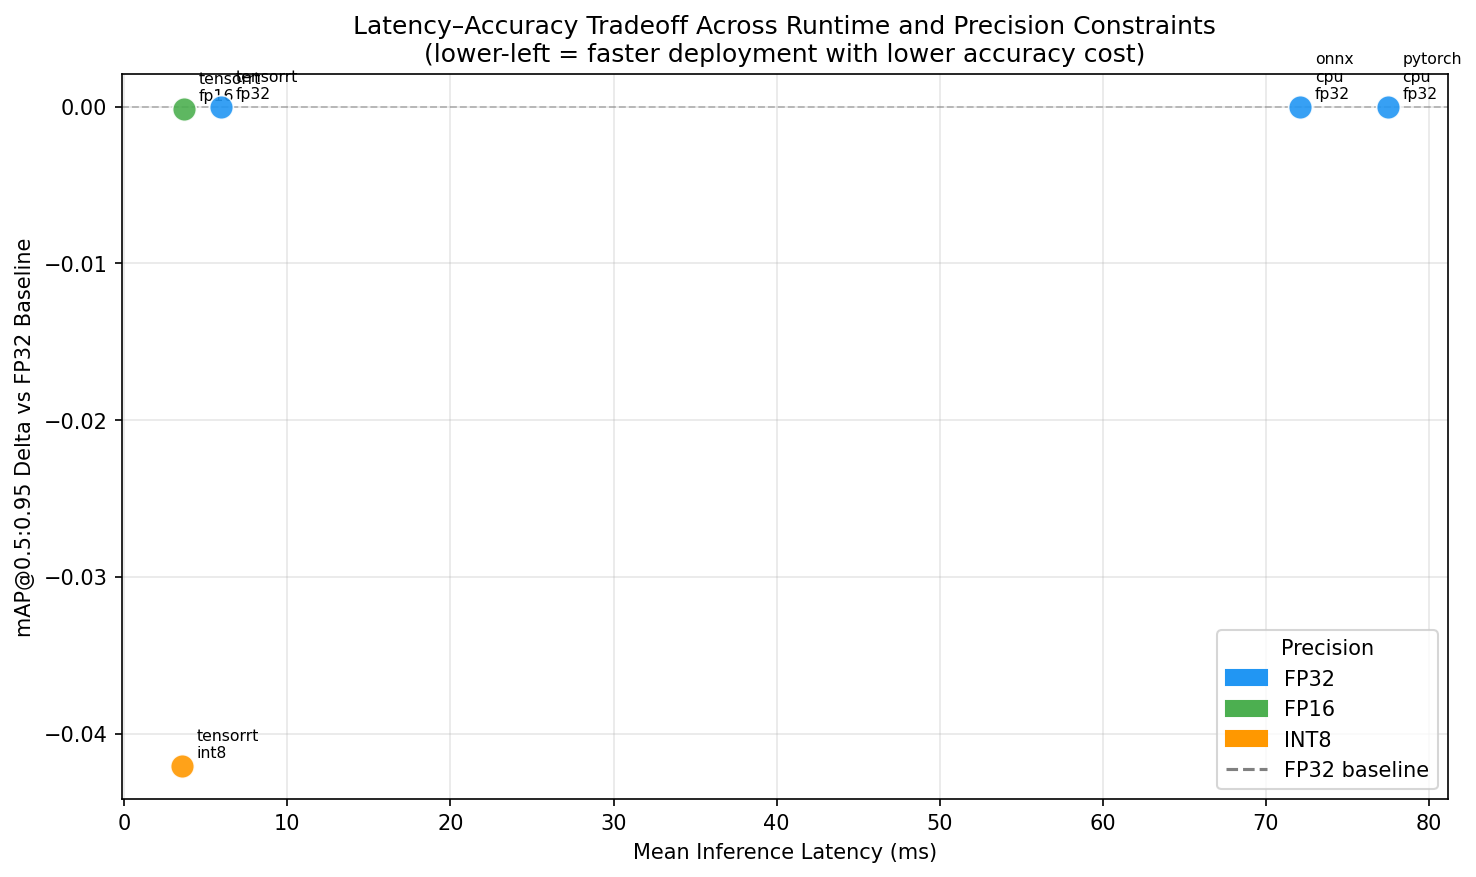
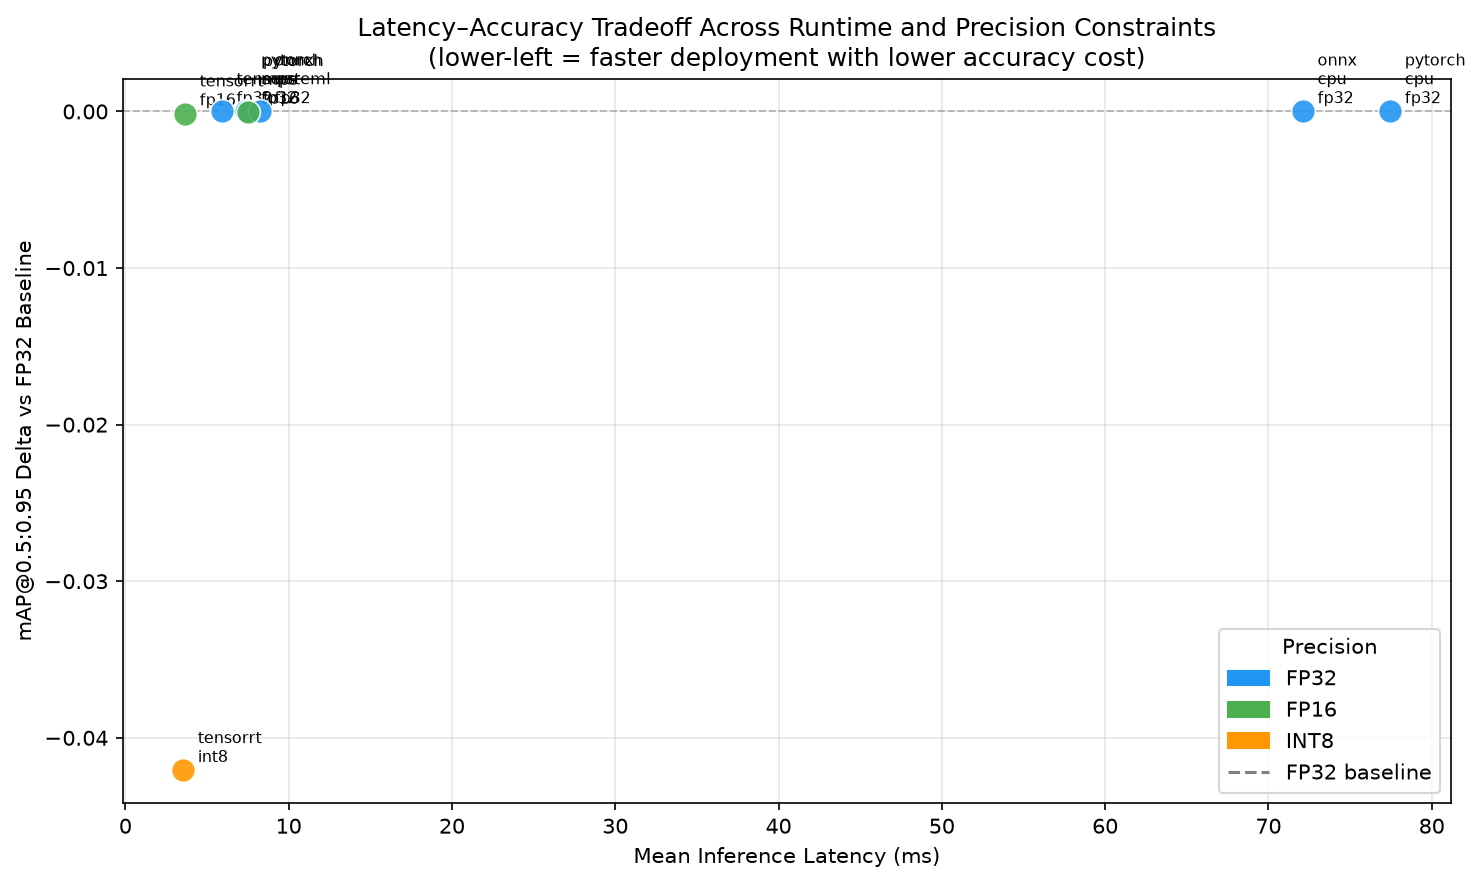
docs(mac-m5): update README and results notebook with real Mac M5 numbers
Real measured results (2026-08-08): PyTorch MPS FP32 (7.41ms, mAP 0.3595),
PyTorch MPS FP16 (7.53ms, mAP 0.3595, delta -0.0000384 noise-level), ONNX
Runtime + CoreML EP FP32 (8.24ms, mAP 0.3594). Updated the Latency and
Accuracy table, Memory Footprint table, Runtime and Hardware Scope status
(In progress -> Complete for what ran), Reproduction section (Mac M5 pinned
versions, updated test count 194->225), and Project Structure comments.

New Emergent Finding: Apple Silicon is competitive with a discrete T4 GPU
for this model class (7.41ms vs 5.91ms), and unlike TensorRT, FP16 provides
no latency benefit on MPS (7.53ms vs 7.41ms FP32, within noise) despite an
identical accuracy profile. New Deployment Decision Framework paragraph for
Apple Silicon / on-device edge deployment.

notebooks/results_analysis.ipynb: added the 3 real Mac M5 result filenames
to CANONICAL_FILES (not the _mac_m4-suffixed names the parked comment
guessed at -- ResultWriter.write_json() never used a hardware suffix),
uncommented the matching EXPECTED_COMBINATIONS entries, fixed the
mac_m4->mac_m5 hardware-label map and HARDWARE_ORDER dict. Executed
end-to-end (via extracted script -- jupyter isn't an installed/pinned
dependency) to regenerate all 3 committed figures with the full 8-result
dataset; visually verified before committing.

Claude-Session: https://claude.ai/code/session_01NDSU1DEoQKk4wQydQ8wTLn

diff --git a/README.md b/README.md
@@ -14,7 +14,7 @@ This is not a model training or accuracy improvement project. The YOLOv8n model 
 
 ## Results
 
-> **Hardware coverage:** CPU benchmarks on Fedora Linux 42 (Intel Core Ultra 5 125H). TensorRT benchmarks on Colab-hosted Tesla T4 (TRT 10.16.1.11, CUDA 12.8). Mac M5 (PyTorch MPS, ONNX Runtime + CoreML EP) benchmarks are in progress as of 2026-08-05 — not yet reflected in the tables below. See [Runtime and Hardware Scope](#runtime-and-hardware-scope) for the implication.
+> **Hardware coverage:** CPU benchmarks on Fedora Linux 42 (Intel Core Ultra 5 125H). TensorRT benchmarks on Colab-hosted Tesla T4 (TRT 10.16.1.11, CUDA 12.8). Mac M5 (Apple M5 MacBook Air) benchmarks completed 2026-08-08 for PyTorch MPS (FP32, FP16) and ONNX Runtime + CoreML EP (FP32) — see [Runtime and Hardware Scope](#runtime-and-hardware-scope) for what remains unbuilt (CoreML EP FP16/INT8).
 
 > **mAP note:** All mAP values are from this pipeline's evaluation (class-agnostic NMS, eval_conf_threshold=0.001). Published YOLOv8n baseline: 0.372 mAP@0.5:0.95 (Ultralytics, class-aware NMS). The 3.4% gap is structural and constant across all runtimes — it does not affect relative comparisons within this study. See [Benchmark Methodology](#benchmark-methodology).
 
@@ -27,10 +27,15 @@ This is not a model training or accuracy improvement project. The YOLOv8n model 
 | TensorRT | Colab T4 | FP32 | 5.91 ms | 8.48 ms | 118 | 0.3595 | baseline |
 | TensorRT | Colab T4 | FP16 | 3.66 ms | 4.25 ms | 235 | 0.3594 | −0.0001 ¹ |
 | TensorRT | Colab T4 | INT8 | 3.54 ms | 4.99 ms | 200 | 0.3174 | **−0.042** |
+| PyTorch MPS | Mac M5 | FP32 | 7.41 ms | 7.78 ms | 129 | 0.3595 | baseline |
+| PyTorch MPS | Mac M5 | FP16 | 7.53 ms | 7.97 ms | 126 | 0.3595 | −0.0000 ⁶ |
+| ONNX Runtime + CoreML EP | Mac M5 | FP32 | 8.24 ms | 9.35 ms | 107 | 0.3594 | baseline |
 
 ¹ TRT FP16 mAP delta (−0.0001) is below COCOeval measurement noise — sign reverses between the two Colab runs. FP32 and FP16 are 0.3595 for all practical purposes.
 
 ⁵ CPU numbers are from Run 3 (2026-05-11), a thermally throttled session. Mean latency ranged 1.7× across three sessions on identical hardware: PyTorch 51–88 ms, ONNX Runtime 43–72 ms. No single session is authoritative without CPU governor pinning; see [Emergent Findings](#emergent-findings) for the thermal characterisation. FPS derived from p95 latency.
+
+⁶ Mac MPS FP16 mAP delta (−0.0000384) is below COCOeval measurement noise — smaller than TRT's FP16 delta and consistent with FP16 having no measurable accuracy cost on this model at either GPU-class hardware target. FP16 here is a true full-precision cast (`.half()` on model and input), not autocast mixed precision — see `docs/issue-log/2026-08-07-mps-autocast-unsupported.md`.
 
 ### Memory Footprint
 
@@ -39,12 +44,17 @@ This is not a model training or accuracy improvement project. The YOLOv8n model 
 | PyTorch CPU | FP32 | 376 MB ² |
 | ONNX Runtime CPU EP | FP32 | ~460 MB ³ |
 | TensorRT | FP32 / FP16 / INT8 | 12.7 MB (I/O buffers only) ⁴ |
+| PyTorch MPS | FP32 | 378 MB |
+| PyTorch MPS | FP16 | 432 MB |
+| ONNX Runtime + CoreML EP | FP32 | 799 MB ⁷ |
 
 ² PyTorch CPU RSS confirmed stable to ±1.2% across three independent benchmark sessions (367–376 MB). Inference allocates +3.5 MB marginal memory above the loaded model; no allocation growth per call.
 
 ³ ONNX Runtime true steady-state footprint measured in isolation (Run 1, 460 MB). Sequential pipeline runs show 818 MB due to un-reclaimed heap from prior mAP evaluation — `peak_memory_delta_mb = 0.0` in those runs confirms zero marginal inference cost; the inflated RSS is entirely pre-existing allocation. True session footprint: ~460 MB.
 
 ⁴ The 12.7 MB reflects PyTorch-allocated I/O tensors (`d_input` + `d_output`). TRT allocates engine weights and activation workspace through its own cudaMalloc pools, which are invisible to `torch.cuda.max_memory_allocated()`. Estimated true VRAM: ~80–130 MB (FP16), ~150–250 MB (FP32), ~50–80 MB (INT8). This is a known measurement gap documented in `docs/benchmark-run-trt-2-findings.md`.
+
+⁷ ONNX Runtime + CoreML EP's 799 MB is notably higher than the CPU EP's ~460 MB for the same FP32 model. CoreML EP partitions the graph at load time (confirmed in logs: 11 partitions covering 221 of 233 nodes, with the remaining 12 nodes falling back to CPU EP) — the partition/fallback stitching and CoreML's own compiled-model representation both add overhead the single-EP CPU path doesn't incur. Not yet decomposed further; a candidate follow-up.
 
 ### Latency–Accuracy Tradeoff
 
@@ -83,10 +93,10 @@ This is not a model training or accuracy improvement project. The YOLOv8n model 
 | PyTorch CPU | Intel Core Ultra 5 125H (Fedora) | ✓ | — | — | Complete |
 | ONNX Runtime CPU EP | Intel Core Ultra 5 125H (Fedora) | ✓ | — | — | Complete |
 | TensorRT | Tesla T4 (Colab) | ✓ | ✓ | ✓ | Complete |
-| ONNX Runtime + CoreML EP | Mac M5 Neural Engine | ✓ | — | — | In progress (2026-08-05) — FP32 only; FP16/INT8 need a quantization pipeline, not yet built |
-| PyTorch MPS | Mac M5 GPU | ✓ | ✓ | — | In progress (2026-08-05) |
+| PyTorch MPS | Apple M5 (Mac) | ✓ | ✓ | — | Complete (2026-08-08) |
+| ONNX Runtime + CoreML EP | Apple M5 Neural Engine (Mac) | ✓ | — | — | FP32 complete (2026-08-08); FP16/INT8 need a static-quantization pipeline that was never built — a gap independent of Mac availability, tracked as a follow-up |
 
-**Mac M5 / CoreML EP:** The study was designed with three hardware targets. The Mac was not available during the original benchmark window (2026-05-01–2026-05-25) and has since become available (Apple M5, confirmed 2026-08-05). Mac-specific code in `src/runtimes/onnx_runtime.py` and `src/runtimes/pytorch_runtime.py` (marked `# MAC_REQUIRED:`) is being activated. The Mac Neural Engine via CoreML Execution Provider and TensorRT on a Colab T4 represent the same class of problem — hardware-accelerated inference on constrained silicon — with different vendor stacks. TensorRT on Jetson and CoreML EP on Apple Silicon are architecturally equivalent deployment scenarios.
+**Mac M5 / CoreML EP:** The study was designed with three hardware targets. The Mac was not available during the original benchmark window (2026-05-01–2026-05-25) and became available 2026-08-05 (Apple M5 MacBook Air). PyTorch MPS (FP32, FP16) and ONNX Runtime + CoreML EP (FP32) are now benchmarked. Mac-specific code in `src/runtimes/onnx_runtime.py` and `src/runtimes/pytorch_runtime.py` (formerly marked `# MAC_REQUIRED:`) is active. The Mac Neural Engine via CoreML Execution Provider and TensorRT on a Colab T4 represent the same class of problem — hardware-accelerated inference on constrained silicon — with different vendor stacks. TensorRT on Jetson and CoreML EP on Apple Silicon are architecturally equivalent deployment scenarios. FP16 on MPS uses explicit `.half()` casting rather than `torch.autocast` — the latter does not support `device_type="mps"` on the pinned `torch==2.3.1` (see `docs/issue-log/2026-08-07-mps-autocast-unsupported.md`).
 
 **TensorRT on Apple Silicon:** TensorRT does not run on Apple Silicon. This is an architecture boundary, not a project limitation. The study benchmarks across hardware classes intentionally: CPU-only baseline, NVIDIA GPU (T4), and Apple Neural Engine targets. The absence of TensorRT on Mac is consistent with this design.
 
@@ -110,6 +120,8 @@ These findings were not known before the benchmark ran. Each is supported by spe
 
 **ONNX export equivalence held to 7 significant figures under a demanding test.** At eval_conf_threshold=0.001, near-marginal anchor outputs (confidence 0.001–0.010) are in play where the 9.77×10⁻⁴ max tensor deviation is on the order of the threshold itself — any systematic activation bias would submit a different detection set. mAP agreed to the seventh decimal across 42 million evaluated anchor outputs.
 
+**Apple Silicon is competitive with a discrete NVIDIA GPU for this model class — and FP16 provides no latency benefit on MPS, unlike TensorRT.** PyTorch MPS FP32 delivers 7.41 ms mean / 7.78 ms p95 (129 FPS at p95) — 10.5× faster than CPU FP32 (77.5 ms) and within 1.25× of TRT FP32 on a discrete T4 GPU (5.91 ms). ONNX Runtime + CoreML EP FP32 is slightly slower at 8.24 ms mean; CoreML EP partitions the graph at load time (11 of 12 candidate partitions covering 221/233 nodes, the remainder falling back to CPU EP), and that partition/fallback stitching plausibly accounts for both the latency gap versus raw MPS and the memory gap (799 MB vs 378 MB — see Memory Footprint). Unlike TensorRT, where FP16 cuts mean latency 38% relative to FP32, MPS FP16 shows no latency improvement (7.53 ms vs 7.41 ms mean — within measurement noise, if anything marginally slower) despite an identical accuracy profile (mAP delta −0.0000384, noise-level, smaller than TRT's own FP16 delta). For a nano-class model at 640×640, Apple Silicon's Metal shader path does not appear to be the same kind of throughput bottleneck NVIDIA's Tensor Cores relieve — FP16 casting overhead may offset any compute-side gain at this scale. Not further decomposed in this study (no Metal-level profiling); a candidate follow-up.
+
 ---
 
 ## Deployment Decision Framework
@@ -128,6 +140,9 @@ The INT8 mAP@0.5:0.95 penalty of −0.042 absolute (−11.7% relative) on TRT fo
 **For memory-budgeted deployment planning:**
 CPU memory footprints are characterised: PyTorch CPU FP32 = 376 MB (stable to ±1.2% across three sessions), ONNX Runtime CPU EP = ~460 MB (isolated measurement). TRT VRAM is not characterised — the 12.7 MB figure in the result schema reflects PyTorch I/O tensor allocation only. Before using these results to size GPU memory on embedded targets (Jetson Orin, Xavier), nvidia-smi VRAM measurement before/after engine load must be added to the TRT benchmark cell. The fix is documented and approximately 10 lines of code.
 
+**For Apple Silicon / on-device edge deployment (products built on Apple hardware — iOS/macOS-embedded perception, robotics with an Apple SoC):**
+PyTorch MPS FP32 (7.41 ms mean, 129 FPS at p95) and ONNX Runtime + CoreML EP FP32 (8.24 ms mean, 107 FPS at p95) both clear real-time thresholds comfortably at this resolution, with mAP@0.5:0.95 = 0.3595 / 0.3594 — statistically the same as the Fedora CPU and TRT FP32 baselines. Unlike the NVIDIA path, FP16 provides no measured latency benefit on MPS in this study (7.53 ms mean, effectively identical to FP32 within noise) — FP32 is the simpler operating point on Apple Silicon at this model size unless a specific memory or power constraint favours FP16's smaller weight footprint. INT8 on this hardware path remains unbuilt — no ONNX Runtime static-quantization pipeline exists in this codebase yet, a gap independent of Mac hardware availability (see Runtime and Hardware Scope) — so a deployment requiring INT8-class throughput on Apple Silicon cannot be evaluated from this study's data. CoreML EP's higher steady-state memory (799 MB vs MPS's 378 MB for the identical FP32 model) is a real cost of its partition/compile step and should factor into device memory budgeting alongside the raw latency numbers.
+
 ---
 
 ## Reproduction
@@ -145,6 +160,11 @@ python scripts/export_model.py
 # CPU benchmark suite (PyTorch CPU + ONNX Runtime CPU EP)
 python scripts/run_benchmark.py
 
+# Mac benchmark suite (PyTorch MPS + ONNX Runtime CoreML EP) — run on Apple Silicon
+# --runtime/--precision filters target only these, without re-running (and
+# overwriting) the canonical Fedora CPU result files under the same filenames
+python scripts/run_benchmark.py --runtime pytorch_mps --runtime onnx_coreml
+
 # TensorRT benchmark — self-contained, run on Colab T4
 # notebooks/tensorrt_colab.ipynb
 
@@ -156,12 +176,14 @@ jupyter notebook notebooks/results_analysis.ipynb
 
 **Pinned versions — Colab T4 (Run 2 environment):** TensorRT 10.16.1.11, CUDA 12.8, PyTorch 2.10.0+cu128, ONNX Runtime 1.26.0, numpy 2.0.2, Python 3.12.13.
 
+**Pinned versions — Mac M5 (actual benchmark environment, 2026-08-08):** Python 3.11.15, PyTorch 2.3.1, ONNX Runtime 1.18.1, numpy 1.26.4, ultralytics 8.2.103, coremltools 7.2. Same torch/onnxruntime/numpy/ultralytics pins as Fedora, per the project's cross-environment version-parity requirement. Note: `coremltools==7.2` has not been officially tested against `torch==2.3.1` upstream (most recently tested against 2.2.0) — no issues observed in this study, flagged for awareness.
+
 **INT8 calibration:** Manifest committed at `data/calibration/manifest.json` — exact 500-image set (seed 42, COCO val2017) is reproducible without re-running the sampler.
 
 **Tests:**
 
 ```bash
-pytest tests/unit/                             # 194 tests — run before every commit
+pytest tests/unit/                             # 225 tests — run before every commit
 pytest tests/integration/                      # End-to-end pipeline validation
 pytest tests/ --cov=src --cov-fail-under=80    # 80% floor; 90%+ on benchmark modules
 ```
@@ -178,8 +200,8 @@ edge-inference-benchmark/
 ├── src/
 │   ├── runtimes/
 │   │   ├── base_runtime.py           # Abstract interface — name, load, infer, warmup
-│   │   ├── pytorch_runtime.py        # CPU (active) + MPS stub (MAC_REQUIRED)
-│   │   ├── onnx_runtime.py           # CPU EP (active) + CoreML EP stub (MAC_REQUIRED)
+│   │   ├── pytorch_runtime.py        # CPU + MPS (FP32/FP16, explicit .half() cast) — active
+│   │   ├── onnx_runtime.py           # CPU EP + CoreML EP (FP32) — active; FP16/INT8 not built
 │   │   └── tensorrt_runtime.py       # TRT engine execution (Colab only)
 │   ├── benchmark/
 │   │   ├── latency_profiler.py       # 100 runs, 10 warmup, perf_counter, p95
@@ -200,10 +222,10 @@ edge-inference-benchmark/
 │   └── figures/                      # Committed — latency_comparison, memory_footprint,
 │                                     # tradeoff_scatter (PNG)
 └── tests/
-    ├── unit/                         # One test file per source module (194 tests)
+    ├── unit/                         # One test file per source module (225 tests)
     └── integration/                  # Pipeline validation from input to result schema
 ```
 
 ---
 
-*Benchmark environment: Fedora Linux 42 (Intel Core Ultra 5 125H, CPU-only) for PyTorch and ONNX Runtime; Google Colab Tesla T4 (TRT 10.16.1.11, CUDA 12.8) for TensorRT. Model: YOLOv8n (Ultralytics, pretrained on COCO, 3.2M parameters). Dataset: COCO val2017, 5,000 images, 80 classes.*
+*Benchmark environment: Fedora Linux 42 (Intel Core Ultra 5 125H, CPU-only) for PyTorch and ONNX Runtime; Google Colab Tesla T4 (TRT 10.16.1.11, CUDA 12.8) for TensorRT; Apple M5 MacBook Air for PyTorch MPS and ONNX Runtime + CoreML EP. Model: YOLOv8n (Ultralytics, pretrained on COCO, 3.2M parameters). Dataset: COCO val2017, 5,000 images, 80 classes.*
